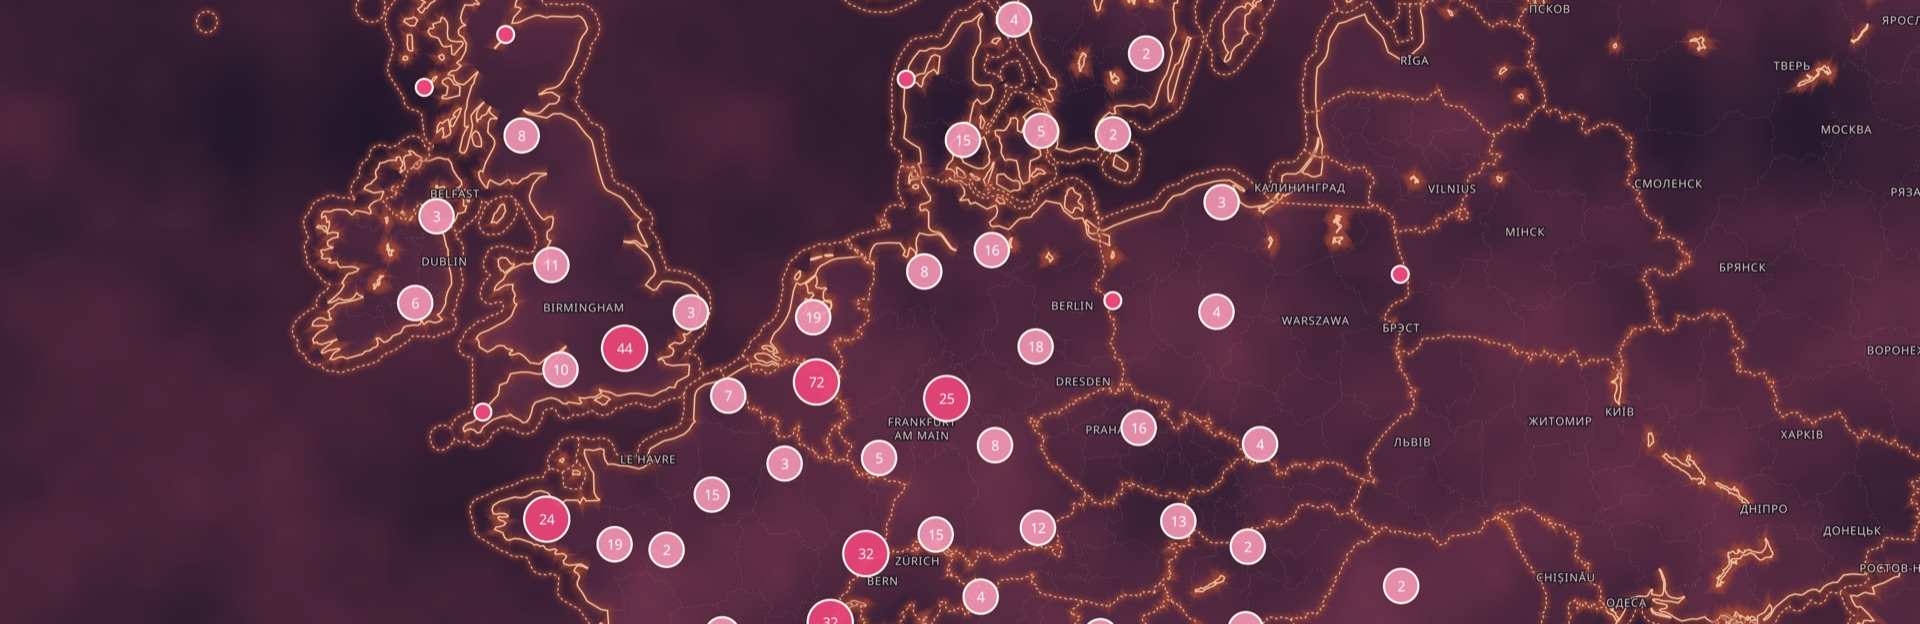
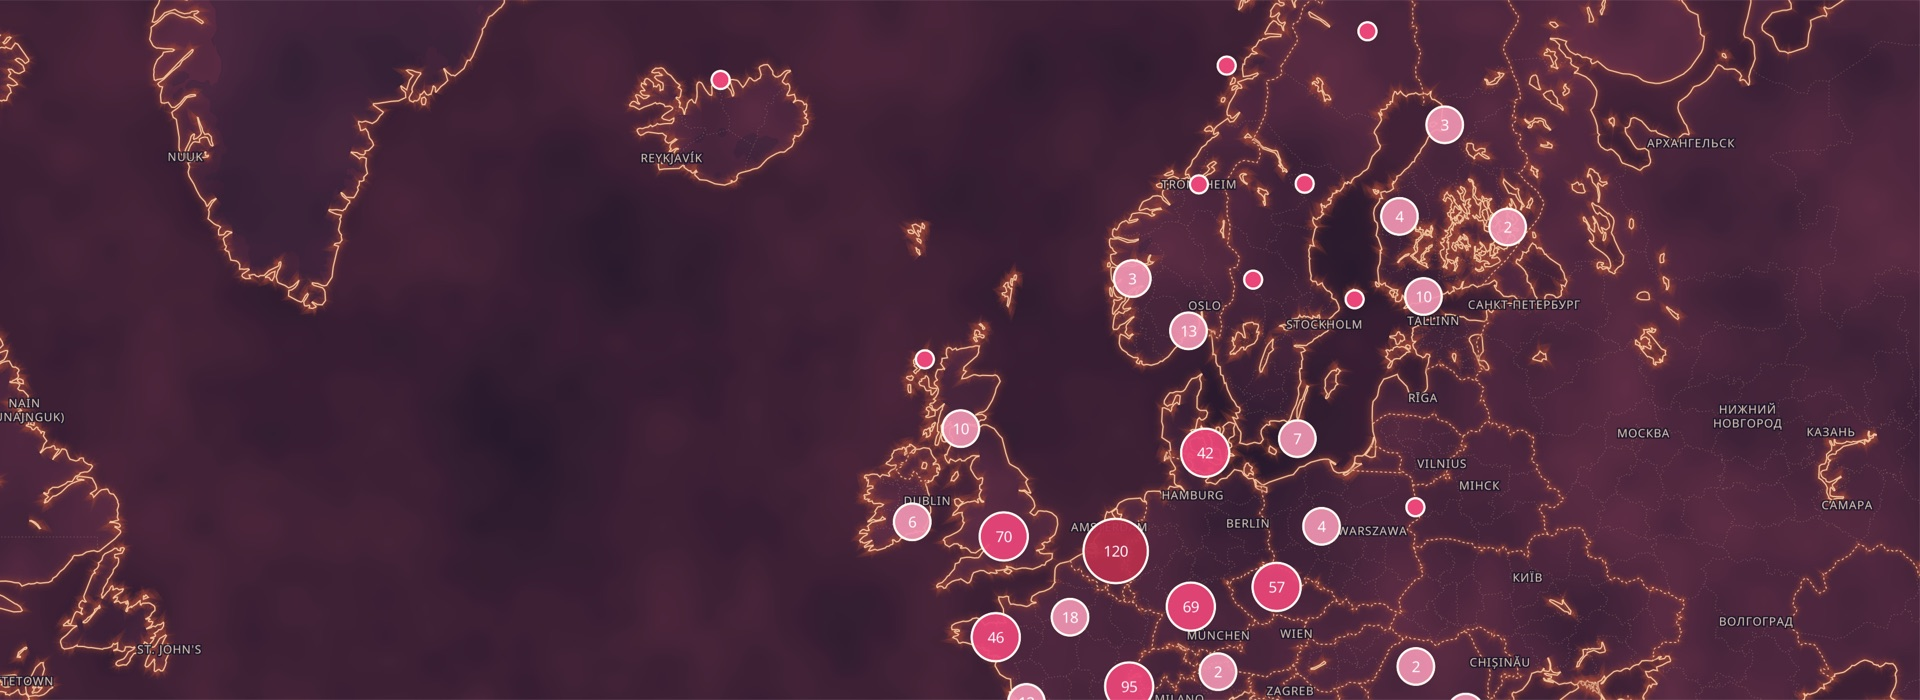
Redesign nav as minimal tabs, refresh hero image, add electronic festivals
- Extract shared NavTabs component: pathname-driven active state in pink,
  no underline, compact single-line row shared by Header and SiteHeader
- Align the homepage hero heading with the body copy below it
- Swap the hero banner image
- Add 6 newly-added electronic festivals to the elektronisk guide's list
- Add Malta to the Countries translations (missing since the last festival
  batch) and the SQL that added them plus fixed the love-family-park/
  m-era-luna duplicate

diff --git a/src/components/Header.tsx b/src/components/Header.tsx
@@ -2,28 +2,24 @@
 
 import { useTranslations } from "next-intl";
 import { LanguageSwitcher } from "@/components/LanguageSwitcher";
-import { Link } from "@/i18n/navigation";
+import { usePathname } from "@/i18n/navigation";
+import { NavTabs } from "@/components/NavTabs";
 
 export function Header() {
   const t = useTranslations("Header");
-  const tg = useTranslations("Guides");
+  const pathname = usePathname();
   return (
     <div className="pointer-events-none absolute inset-x-0 top-0 z-30 flex justify-center pt-[env(safe-area-inset-top)]">
-      <div className="pointer-events-auto flex w-full items-center gap-3 border-b border-black/5 bg-[#FFF9F0] px-4 py-3 shadow-sm">
-        {/* eslint-disable-next-line @next/next/no-img-element */}
-        <img src="/logo.svg" alt="" className="h-7 w-7" />
-        <span className="font-heading text-lg text-[#2D1A12]">{t("title")}</span>
-        <nav className="ml-2 flex items-center gap-4 text-sm font-medium text-stone-600">
-          <Link href="/" className="hover:text-[#FF2D78]">
-            {tg("navExploreFestivals")}
-          </Link>
-          <Link href="/kart" className="hover:text-[#FF2D78]">
-            {tg("navExploreMap")}
-          </Link>
-        </nav>
-        <div className="ml-auto">
-          <LanguageSwitcher />
+      <div className="pointer-events-auto w-full bg-[#FFF9F0] shadow-sm">
+        <div className="flex items-center gap-3 px-4 py-3">
+          {/* eslint-disable-next-line @next/next/no-img-element */}
+          <img src="/logo.svg" alt="" className="h-7 w-7" />
+          <span className="font-heading text-lg text-[#2D1A12]">{t("title")}</span>
+          <div className="ml-auto">
+            <LanguageSwitcher />
+          </div>
         </div>
+        <NavTabs pathname={pathname} />
       </div>
     </div>
   );

diff --git a/src/components/SiteHeader.tsx b/src/components/SiteHeader.tsx
@@ -1,8 +1,9 @@
 "use client";
 
 import { useTranslations } from "next-intl";
-import { Link } from "@/i18n/navigation";
+import { Link, usePathname } from "@/i18n/navigation";
 import { LanguageSwitcher } from "@/components/LanguageSwitcher";
+import { NavTabs } from "@/components/NavTabs";
 
 /**
  * Static (in-flow) top bar for content pages — the guides hub and guide
@@ -11,26 +12,19 @@ import { LanguageSwitcher } from "@/components/LanguageSwitcher";
  */
 export function SiteHeader() {
   const t = useTranslations("Header");
-  const tg = useTranslations("Guides");
+  const pathname = usePathname();
 
   return (
-    <div className="border-b border-black/5 bg-[#FFF9F0] pt-[env(safe-area-inset-top)]">
+    <div className="bg-[#FFF9F0] pt-[env(safe-area-inset-top)]">
       <div className="flex items-center gap-3 px-4 py-3 sm:px-5">
         {/* eslint-disable-next-line @next/next/no-img-element */}
         <img src="/logo.svg" alt="" className="h-7 w-7 shrink-0" />
         <span className="font-heading text-lg text-[#2D1A12]">{t("title")}</span>
-        <nav className="ml-2 flex items-center gap-4 text-sm font-medium text-stone-600">
-          <Link href="/" className="hover:text-[#FF2D78]">
-            {tg("navExploreFestivals")}
-          </Link>
-          <Link href="/kart" className="hover:text-[#FF2D78]">
-            {tg("navExploreMap")}
-          </Link>
-        </nav>
         <div className="ml-auto">
           <LanguageSwitcher />
         </div>
       </div>
+      <NavTabs pathname={pathname} />
     </div>
   );
 }

diff --git a/src/components/NavTabs.tsx b/src/components/NavTabs.tsx
@@ -1,0 +1,39 @@
+"use client";
+
+import { useTranslations } from "next-intl";
+import { Link } from "@/i18n/navigation";
+
+/**
+ * The two top-level nav links, styled as minimal tabs on their own white row
+ * beneath the logo bar. Active tab is derived from `pathname` rather than
+ * passed in, so both `Header` and `SiteHeader` stay in sync automatically as
+ * the user navigates.
+ */
+export function NavTabs({ pathname }: { pathname: string }) {
+  const tg = useTranslations("Guides");
+  const isMap = pathname === "/kart";
+
+  return (
+    <nav className="flex justify-center gap-7 border-t border-black/5 bg-white px-4 py-2">
+      <Link
+        href="/"
+        className={`text-sm font-medium ${
+          isMap ? "text-stone-400 hover:text-[#2D1A12]" : "text-[#FF2D78]"
+        }`}
+      >
+        {tg("navExploreFestivals")}
+      </Link>
+      <span className="text-sm text-stone-300" aria-hidden="true">
+        |
+      </span>
+      <Link
+        href="/kart"
+        className={`text-sm font-medium ${
+          isMap ? "text-[#FF2D78]" : "text-stone-400 hover:text-[#2D1A12]"
+        }`}
+      >
+        {tg("navExploreMap")}
+      </Link>
+    </nav>
+  );
+}

diff --git a/src/app/[locale]/page.tsx b/src/app/[locale]/page.tsx
@@ -120,8 +120,10 @@ export default async function HomePage({
           className="absolute inset-0 h-full w-full object-cover"
         />
         <div className="absolute inset-0 bg-gradient-to-t from-black/75 via-black/10 to-transparent" />
-        <div className="absolute inset-x-0 bottom-0 px-5 pb-5 sm:px-8 sm:pb-6">
-          <h1 className="text-2xl text-white sm:text-4xl">{tg("hubTitle", { year: hubYear })}</h1>
+        <div className="absolute inset-x-0 bottom-0 px-5 pb-5 sm:pb-6">
+          <h1 className="mx-auto max-w-3xl text-2xl text-white sm:text-4xl">
+            {tg("hubTitle", { year: hubYear })}
+          </h1>
         </div>
       </div>
 

diff --git a/src/lib/guides.ts b/src/lib/guides.ts
@@ -62,12 +62,18 @@ export const GUIDES: Record<GuideKey, Guide> = {
       "dekmantel-festival",
       "parookaville",
       "awakenings-festival",
+      "time-warp-germany",
       "creamfields",
       "kappa-futurfestival",
       "nature-one",
       "ultra-europe",
       "untold-festival",
       "sonar-barcelona",
+      "dgtl-festival-amsterdam",
+      "love-family-park",
+      "junction-2-festival",
+      "hive-festival",
+      "neopop",
     ],
   },
   jazz: {
